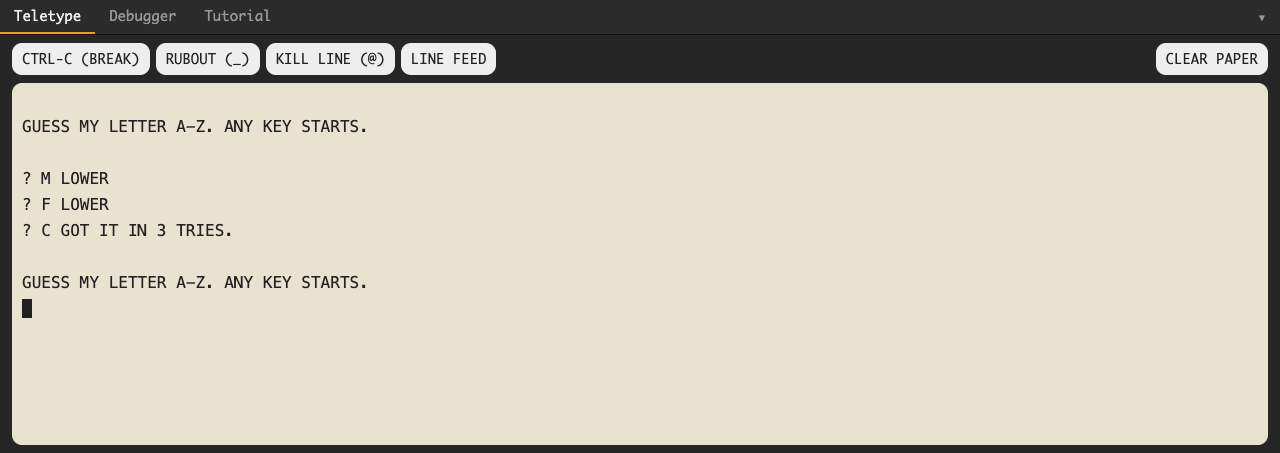
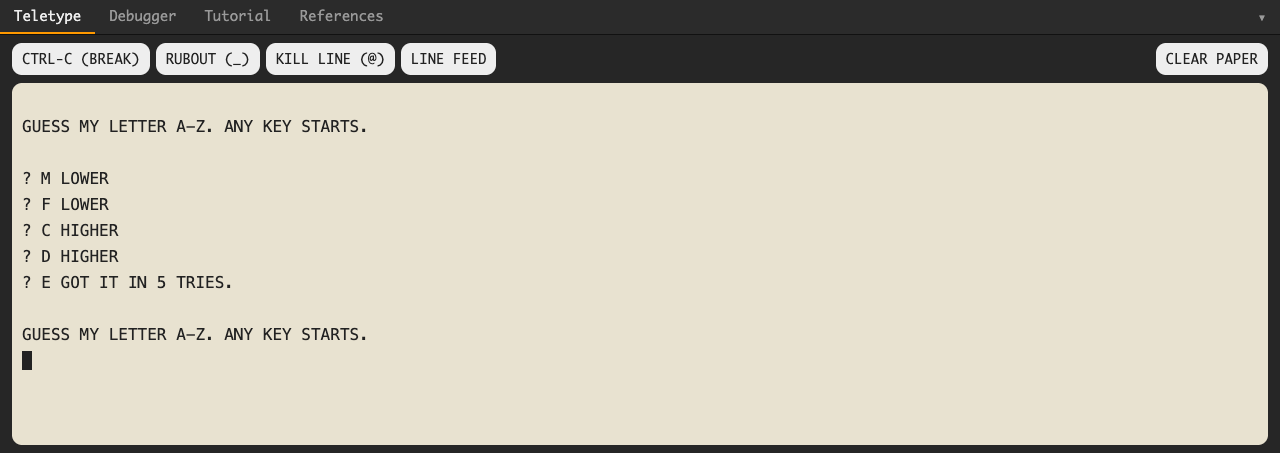
Give the references a tab of their own
The source code and the reading list leave the foot of the Tutorial
for a fourth dock tab, References, as @cj0ne5 suggested in reviewing
#11. About's Further Reading button becomes References and opens that
tab at its top, resetting the scroll the tabs share. Inside the tab,
the list's heading is now Further Reading, so the two do not repeat.

On a phone the four tabs close up, and where a language's names are
longer still the row scrolls under the fold button, which stays pinned;
the chosen tab is scrolled into view. Recorded as U6, with the README
and its screenshots brought up to four tabs.

Changed region(s): [[0.0, 0.4945, 0.2812, 0.7726], [0.2188, 0.0309, 0.3125, 0.0618], [0.0, 0.7726, 0.0312, 0.8344]]

diff --git a/index.html b/index.html
@@ -142,6 +142,7 @@
           <div id="nav-tty" class="dock-tab l10n" role="tab" tabindex="0" aria-controls="tab-tty">Teletype</div>
           <div id="nav-debug" class="dock-tab l10n" role="tab" tabindex="0" aria-controls="tab-debug">Debugger</div>
           <div id="nav-ref" class="dock-tab l10n" role="tab" tabindex="0" aria-controls="tab-ref">Tutorial</div>
+          <div id="nav-links" class="dock-tab l10n" role="tab" tabindex="0" aria-controls="tab-links">References</div>
           <div class="toolbar-spacer"></div>
           <div id="dock-toggle" class="dock-tool" role="button" tabindex="0"></div>
         </div>
@@ -260,16 +261,20 @@ RUN</pre>
           </ol>
           <p id="basic-note" class="tutorial-note l10n">What loading 4K BASIC skips: on a real Altair you first toggled a 28 byte boot loader in through the front panel, one byte at a time, then started the paper tape reader and waited about seven minutes while BASIC clattered in. Get one switch wrong and you did it again.</p>
         </div>
+          </div>
 
+          <!-- The source and the further reading, a tab of their own so
+               that About's References button opens straight onto them. -->
+          <div id="tab-links" class="dock-pane" role="tabpanel">
         <div class="subheader-bar">
-          <div id="source-code" class="l10n">Source code</div>
+          <div id="source-code" class="l10n">Source Code</div>
         </div>
         <ul class="link-list">
           <li><a href="https://github.com/wixette/8800-simulator" target="_blank" rel="noopener">github.com/wixette/8800-simulator</a></li>
         </ul>
 
         <div class="subheader-bar">
-          <div id="reference-title" class="l10n">References</div>
+          <div id="reference-title" class="l10n">Further Reading</div>
         </div>
         <ul class="link-list">
           <li><a href="https://en.wikipedia.org/wiki/Altair_8800" target="_blank" rel="noopener"><span id="ref-wikipedia-altair" class="l10n">Wikipedia: Altair 8800</span></a></li>
@@ -285,7 +290,6 @@ RUN</pre>
           <li><a href="http://altairbasic.org" target="_blank" rel="noopener"><span id="ref-basic-disassembly" class="l10n">Altair BASIC 3.2 (4K) - an annotated disassembly of the exact program this simulator runs</span></a></li>
           <li><a href="https://s2js.com/altair/" target="_blank" rel="noopener"><span id="ref-altair-simulator" class="l10n">MITS Altair Simulator - another JavaScript simulator, running Microsoft BASIC on a simulated teletype</span></a></li>
         </ul>
-
           </div>
         </div>
       </section>
@@ -371,7 +375,7 @@ RUN</pre>
             <a href="https://github.com/google/material-design-icons" target="_blank" rel="noopener">Apache License 2.0</a></li>
         </ul>
         <div class="dialog-actions">
-          <button id="about-references" class="dialog-button l10n" type="button">Further Reading</button>
+          <button id="about-references" class="dialog-button l10n" type="button">References</button>
           <button id="about-ok" class="dialog-button primary l10n" type="button" data-close autofocus>Close</button>
         </div>
       </div>

diff --git a/js/l10n.js b/js/l10n.js
@@ -607,15 +607,15 @@ l10n.MESSAGES = {
     },
 
     'about-references': {
-        'en': 'Further Reading',
-        'es': 'Para Saber Más',
-        'fr': 'Pour Aller Plus Loin',
-        'de': 'Weiterlesen',
-        'it': 'Per Approfondire',
-        'zh': '延伸阅读',
-        'zh-TW': '延伸閱讀',
+        'en': 'References',
+        'es': 'Referencias',
+        'fr': 'Références',
+        'de': 'Referenzen',
+        'it': 'Riferimenti',
+        'zh': '参考资料',
+        'zh-TW': '參考資料',
         'ja': '参考資料',
-        'ko': '더 읽을거리',
+        'ko': '참고 자료',
     },
 
     'strip-hide': {
@@ -750,12 +750,24 @@ l10n.MESSAGES = {
         'ko': '튜토리얼',
     },
 
+    'nav-links': {
+        'en': 'References',
+        'es': 'Referencias',
+        'fr': 'Références',
+        'de': 'Referenzen',
+        'it': 'Riferimenti',
+        'zh': '参考资料',
+        'zh-TW': '參考資料',
+        'ja': '参考資料',
+        'ko': '참고 자료',
+    },
+
     'source-code': {
-        'en': 'Source code',
-        'es': 'Código fuente',
-        'fr': 'Code source',
+        'en': 'Source Code',
+        'es': 'Código Fuente',
+        'fr': 'Code Source',
         'de': 'Quellcode',
-        'it': 'Codice sorgente',
+        'it': 'Codice Sorgente',
         'zh': '源代码',
         'zh-TW': '原始碼',
         'ja': 'ソースコード',
@@ -1798,15 +1810,15 @@ l10n.MESSAGES = {
     },
 
     'reference-title': {
-        'en': 'References',
-        'es': 'Referencias',
-        'fr': 'Références',
-        'de': 'Referenzen',
-        'it': 'Riferimenti',
-        'zh': '参考资料',
-        'zh-TW': '參考資料',
-        'ja': '参考資料',
-        'ko': '참고 자료',
+        'en': 'Further Reading',
+        'es': 'Para Saber Más',
+        'fr': 'Pour Aller Plus Loin',
+        'de': 'Weiterlesen',
+        'it': 'Per Approfondire',
+        'zh': '延伸阅读',
+        'zh-TW': '延伸閱讀',
+        'ja': 'さらに詳しく',
+        'ko': '더 읽을거리',
     },
 
     'ref-wikipedia-altair': {

diff --git a/tests/panel.test.js b/tests/panel.test.js
@@ -136,8 +136,8 @@ test('every Debugger control that can be unavailable can say why', () => {
  * @type {Array<string>}
  */
 const REGIONS = ['toolbar', 'stage', 'dock', 'tab-tty', 'tab-debug',
-                 'tab-ref', 'status-bar', 'hex-dialog', 'share-dialog',
-                 'about-dialog'];
+                 'tab-ref', 'tab-links', 'status-bar', 'hex-dialog',
+                 'share-dialog', 'about-dialog'];
 
 /**
  * The part of index.html one region takes up.
@@ -287,6 +287,22 @@ test('Share and the next instruction are where U2 put them', () => {
     assert.ok(at('instr-pane') > at('cpu-dump') &&
               at('instr-pane') < at('mem-dump'),
               'the next instruction is beside the registers');
+});
+
+test('the references have a tab of their own, which About opens', () => {
+    // The Tutorial is a lesson; the source and further reading are
+    // looked up, so they get the dock's last tab rather than its foot.
+    assert.deepStrictEqual(panel.TABS, ['tty', 'debug', 'ref', 'links']);
+    assert.ok(!regionOf('tab-ref').includes('<a '),
+              'the Tutorial keeps no links');
+    const links = regionOf('tab-links');
+    assert.ok(links.includes('id="reference-title"') &&
+              links.includes('github.com/wixette/8800-simulator'),
+              'the References tab has the source and the reading');
+    const handler = sourceOf('js/panel.js').match(
+        /panel\.onAboutReferences = function\(\) \{[\s\S]*?\n\};/)[0];
+    assert.ok(handler.includes("panel.showTab('links')"),
+              "About's References button opens the References tab");
 });
 
 test('a first visit opens the dock on the Tutorial', () => {

diff --git a/css/style.css b/css/style.css
@@ -911,11 +911,10 @@ a {
     padding: 10px 16px;
 }
 
-/* Source code and references, on the dark ground. */
-/* The Tutorial's source code and references: a compact list, as a
-   reference list is, with each entry's wrapped lines hanging under its
-   first. Underlined only under the pointer, so that the column reads as
-   titles rather than as a wall of underscores. */
+/* The References tab's source code and further reading: a compact
+   list, as a reference list is, with each entry's wrapped lines hanging
+   under its first. Underlined only under the pointer, so that the
+   column reads as titles rather than as a wall of underscores. */
 .link-list {
     font-size: 14px;
     line-height: 1.45;
@@ -1250,6 +1249,31 @@ a {
 
     .dock-closed #dock {
         flex: none;
+    }
+
+    /* Four tabs and the fold button across a phone: the tabs closer
+       together, and where a language's names are longer still, the row
+       scrolls under the fold button rather than pushing it off. */
+    #dock-tabs {
+        overflow-x: auto;
+        /* So a tab scrolled to is not left under the fold button. */
+        scroll-padding-right: 36px;
+        scrollbar-width: none;
+    }
+
+    #dock-tabs::-webkit-scrollbar {
+        display: none;
+    }
+
+    .dock-tab {
+        font-size: 13px;
+        padding: 0 9px;
+    }
+
+    #dock-toggle {
+        background-color: #2b2b2b;
+        position: sticky;
+        right: 0;
     }
 
     /* The labels go, the icons and the installed size stay. */

diff --git a/js/panel.js b/js/panel.js
@@ -1113,16 +1113,15 @@ panel.showVersion = function() {
 };
 
 /**
- * When Further Reading is pressed in the About dialog: the Tutorial,
- * at its references.
+ * When References is pressed in the About dialog: the References tab,
+ * from its top.
  */
 panel.onAboutReferences = function() {
     panel.aboutDialog.close();
-    panel.showTab('ref');
-    var heading = document.getElementById('reference-title');
-    if (heading) {
-        heading.scrollIntoView({block: 'start'});
-    }
+    panel.showTab('links');
+    // The tabs share one scrolling body, so it may still be scrolled
+    // to wherever the last tab was read to.
+    document.getElementById('dock-body').scrollTop = 0;
 };
 
 /**
@@ -2283,7 +2282,7 @@ panel.playSwitch = function() {
  * carries over).
  * @type {Array<string>}
  */
-panel.TABS = ['tty', 'debug', 'ref'];
+panel.TABS = ['tty', 'debug', 'ref', 'links'];
 
 /**
  * The tab a first visit opens on: the Tutorial, which says what to do
@@ -2485,6 +2484,10 @@ panel.applyDock = function() {
         let nav = document.getElementById('nav-' + tab);
         nav.classList.toggle('selected', shown);
         nav.setAttribute('aria-selected', shown ? 'true' : 'false');
+        // On a phone the tabs can be wider than the screen.
+        if (shown) {
+            nav.scrollIntoView({block: 'nearest', inline: 'nearest'});
+        }
     }
     panel.refreshDockToggle();
     panel.saveDock();

diff --git a/docs/ui-design.md b/docs/ui-design.md
@@ -17,7 +17,7 @@ principle here first, with its reason.**
 [U1](#u1--the-front-panel-and-a-dock-replace-the-four-tabs) replaced
 the four tabs, [U2](#u2--where-10s-features-go) put #10's features
 in their places, and U3 to U5 came of the first review of both, which
-also gave P10. The questions U1 left open were settled as listed in
+also gave P10. U6 came of @cj0ne5's review of #11. The questions U1 left open were settled as listed in
 [Part 4](#part-4--open-questions), and remain open to revision once the
 layout has been used for a while.
 
@@ -183,7 +183,7 @@ knows how all of them behave.
 │         [OFF/ON] [STOP|RUN] [SINGLE STEP] [EXAMINE|NEXT] [DEPOSIT|NEXT] [RESET]        │
 │       [A15] [A14 A13 A12] [A11 A10 A09] [A08] │ [A07 A06] [A05 A04 A03] [A02 A01 A00]  │
 ├─────────────────────────────────── ═══ drag ═══ ──────────────────────────────────────┤
-│ Teletype •   Debugger   Tutorial                                                  ▾   │
+│ Teletype •   Debugger   Tutorial   References                                     ▾   │
 │ ┌ 8080 CPU Status Dump ─────────────┐  ┌ Next Instruction ────────────────────────┐   │
 │ │ PC = 0004  SP = 0000 … FLAGS S Z… │  │ 0004  3A 81 00  LDA a16                   │   │
 │ └───────────────────────────────────┘  └───────────────────────────────────────────┘   │
@@ -196,7 +196,7 @@ knows how all of them behave.
 
 Where the pieces of the four tabs went. Share and the instruction
 pane's place are U2's; the menus, dialogs and icons U3's; the switch
-strip U4's; the tools' layouts U5's.
+strip U4's; the tools' layouts U5's; the References tab U6's.
 
 | Before | Now | By |
 | --- | --- | --- |
@@ -212,6 +212,7 @@ strip U4's; the tools' layouts U5's.
 | Debugger: run buttons (D27) | Removed: the panel is in view | P2 |
 | Debugger: Copy Link | Toolbar: Share, a dialog (U2, U3) | P4 |
 | Tutorial tab | Dock: Tutorial | P3 |
+| Tutorial tab: source code and references | Dock: References, opened by About's References button (U6) | P3 |
 | Status line (D15) | Foot of the page, never hidden; the credit line moved to About (U3) | P7 |
 
 *Why the dock sits below the panel:* the panel is wide and short
@@ -384,6 +385,24 @@ voice (P5).
   dock - and memory under them, the whole width, with its toolbar on
   one line and Zero All Memory kept apart at the far right. The flags
   are shown by letter, S Z AC P CY, each lit when set.
+
+### U6 — The references are a tab of their own
+
+Suggested by @cj0ne5 in their review of #11. The source code and the
+reading list had sat at the foot of the Tutorial since before U1, so
+About's *Further Reading* could only open the Tutorial and scroll to
+its bottom.
+
+- **A fourth tab, References**, after the Tutorial: the Tutorial is a
+  lesson, read in order; the references are looked up. The tab holds
+  *Source Code* and *Further Reading*, the list as it was.
+- **About's button is named for where it goes**, *References*, and
+  opens the tab at its top. The tabs share one scrolling body, so the
+  scroll is reset rather than left where the last tab was read to.
+- **On a phone** four tabs and the fold button are a squeeze. The tabs
+  close up, and in the languages whose names are longer still the row
+  scrolls under the fold button, which stays pinned at the right; the
+  chosen tab is scrolled into view.
 
 ---
 

diff --git a/README.md b/README.md
@@ -128,8 +128,9 @@ tools below it, and a status line along the foot.
   one or two 88-4MCS boards. Fitting a board meant opening the case, so
   this switches the machine off. On the right are *Share*, the
   language (nine of them), and *About*.
-- **The dock** holds three tools, one at a time: the **Teletype**, the
-  **Debugger** and the **Tutorial**. Click a tab to open it, click it
+- **The dock** holds four tabs, one at a time: the **Teletype**, the
+  **Debugger**, the **Tutorial**, and the **References** (the source
+  code and further reading). Click a tab to open it, click it
   again (or ▾) to fold the dock away, and drag the handle above it to
   share the height with the panel. Whatever you load, the dock opens
   on the Debugger to show it arriving.
